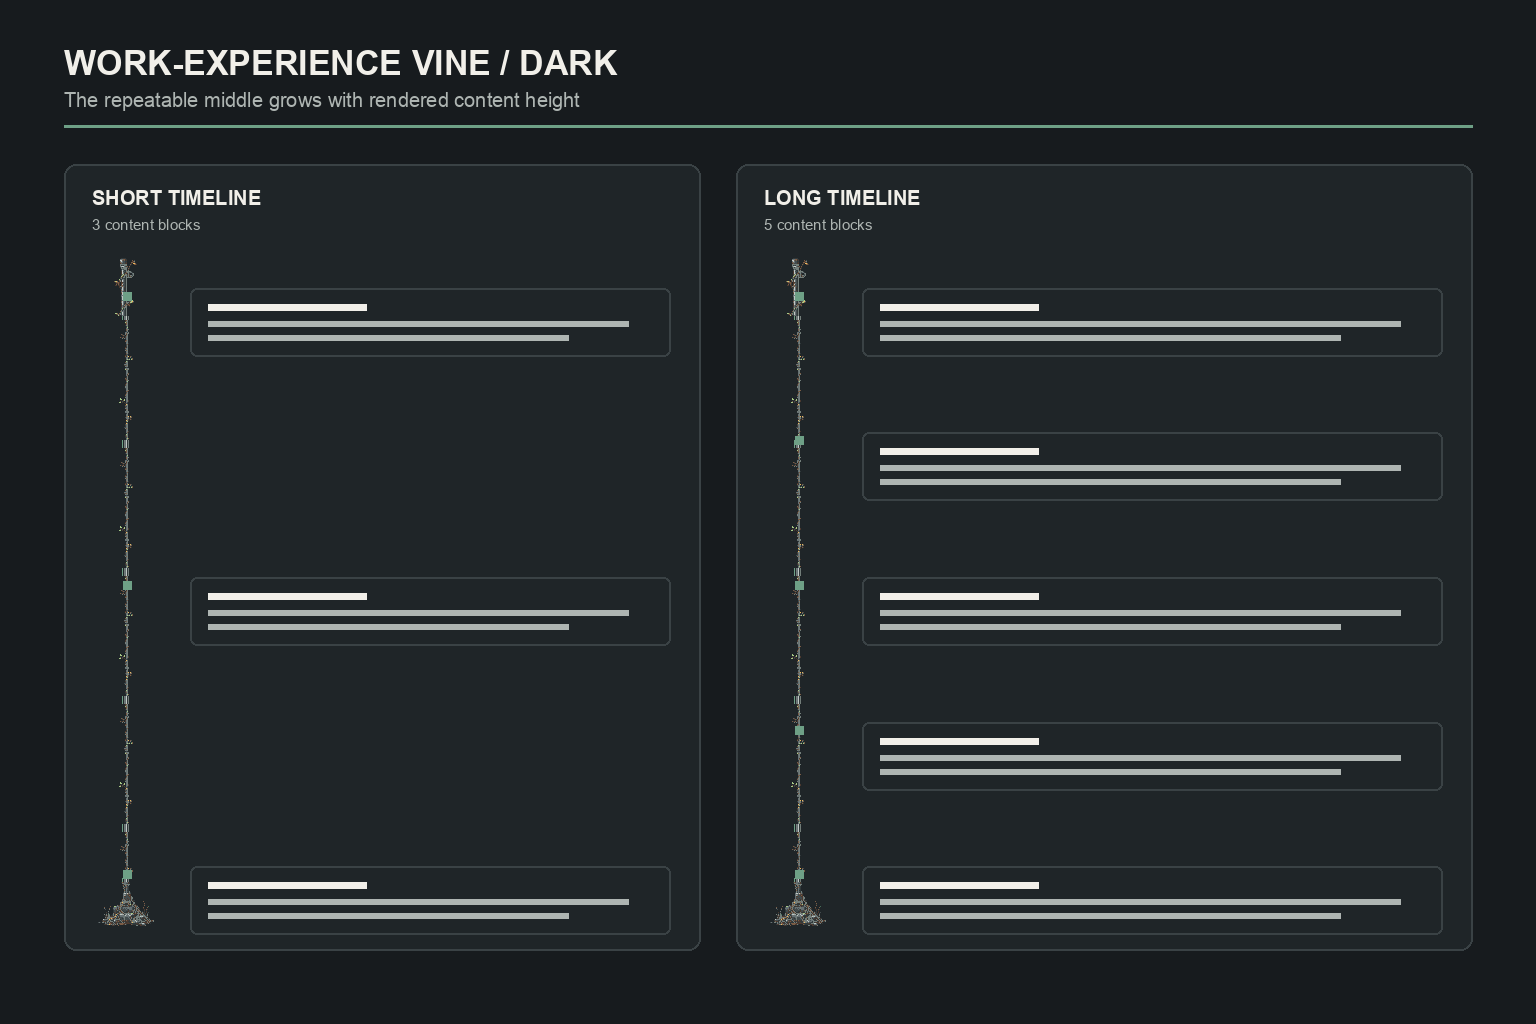
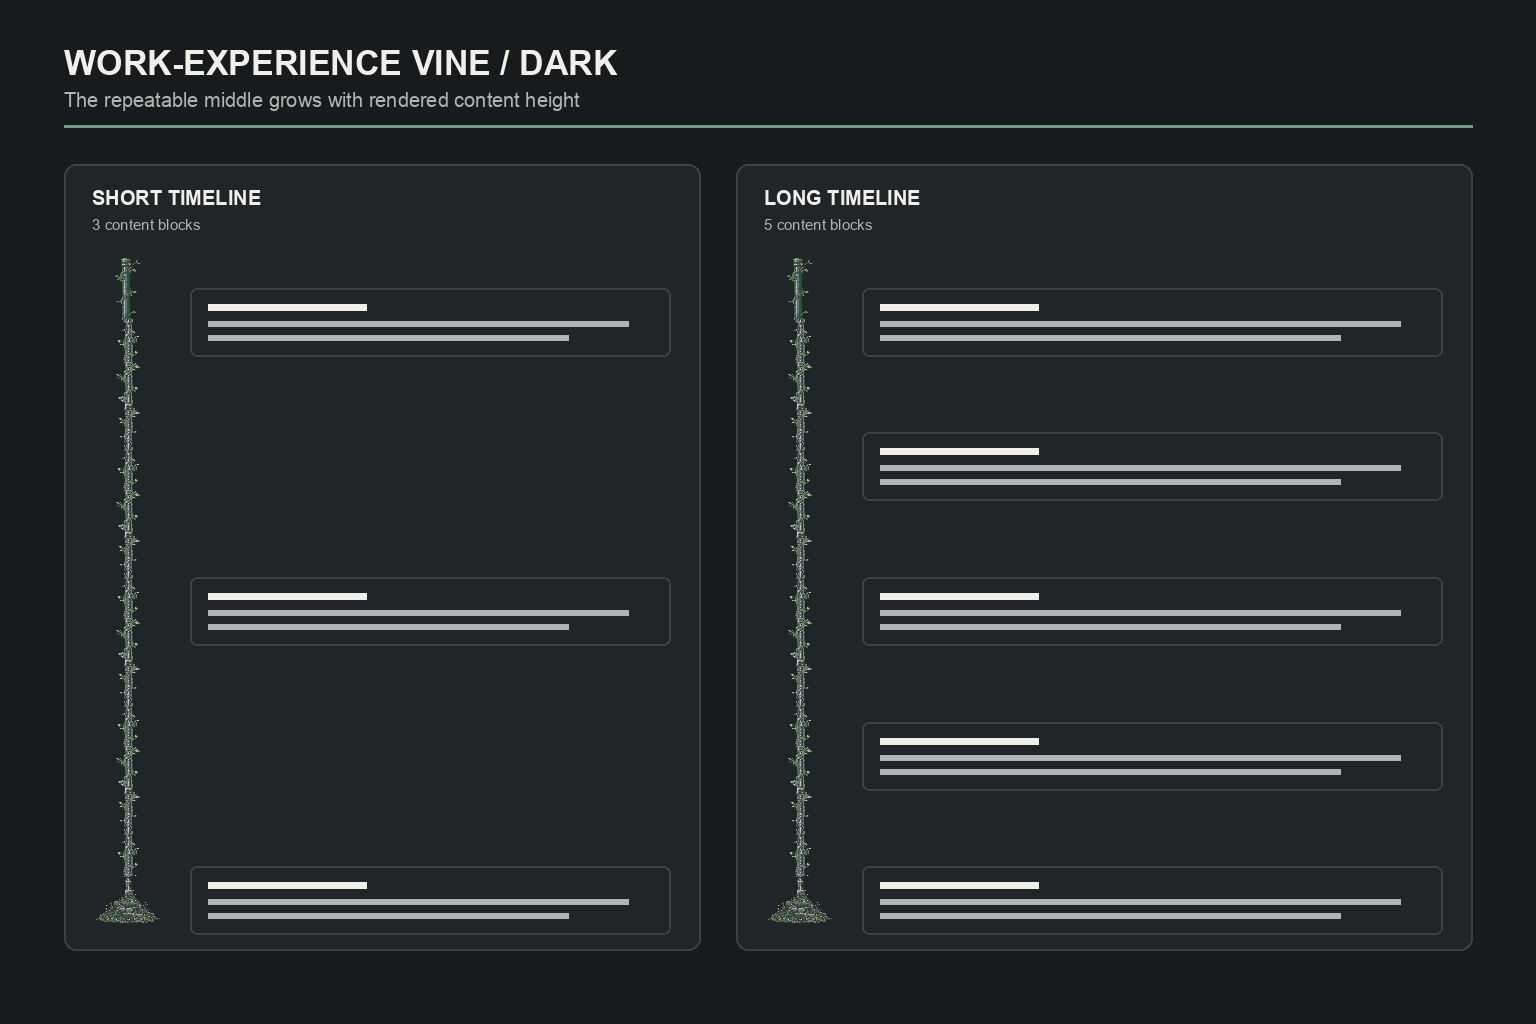
refine vine repeated at work experience

Changed region(s): [[0.5, 0.25, 0.5312, 0.9062], [0.0625, 0.25, 0.0938, 0.9062]]

diff --git a/tests/pixel-ornaments.test.ts b/tests/pixel-ornaments.test.ts
@@ -1,4 +1,5 @@
 import assert from "node:assert/strict";
+import { createHash } from "node:crypto";
 import { readFile } from "node:fs/promises";
 import path from "node:path";
 import test from "node:test";
@@ -17,6 +18,54 @@ type RailAsset = {
 
 function publicPath(assetPath: string) {
   return path.join("public", assetPath.replace(/^\//, ""));
+}
+
+async function alphaBoundsWidth(assetPath: string) {
+  const { data, info } = await sharp(assetPath).ensureAlpha().raw().toBuffer({ resolveWithObject: true });
+  let left = info.width;
+  let right = -1;
+
+  for (let pixel = 0; pixel < info.width * info.height; pixel += 1) {
+    if (data[pixel * info.channels + 3] === 0) continue;
+    const x = pixel % info.width;
+    left = Math.min(left, x);
+    right = Math.max(right, x);
+  }
+
+  assert.ok(right >= left, `${assetPath} has no opaque pixels`);
+  return right - left + 1;
+}
+
+async function alphaBoundsCenter(assetPath: string) {
+  const { data, info } = await sharp(assetPath).ensureAlpha().raw().toBuffer({ resolveWithObject: true });
+  let left = info.width;
+  let right = -1;
+
+  for (let pixel = 0; pixel < info.width * info.height; pixel += 1) {
+    if (data[pixel * info.channels + 3] === 0) continue;
+    const x = pixel % info.width;
+    left = Math.min(left, x);
+    right = Math.max(right, x);
+  }
+
+  assert.ok(right >= left, `${assetPath} has no opaque pixels`);
+  return { boundsCenter: (left + right + 1) / 2, canvasCenter: info.width / 2 };
+}
+
+async function greenCoverage(assetPath: string) {
+  const { data, info } = await sharp(assetPath).ensureAlpha().raw().toBuffer({ resolveWithObject: true });
+  let opaque = 0;
+  let greenPixels = 0;
+
+  for (let pixel = 0; pixel < info.width * info.height; pixel += 1) {
+    const offset = pixel * info.channels;
+    const [red, green, blue, alpha] = data.subarray(offset, offset + info.channels);
+    if (alpha === 0) continue;
+    opaque += 1;
+    if (green > red * 1.15 && green > blue * 1.05) greenPixels += 1;
+  }
+
+  return greenPixels / opaque;
 }
 
 test("the work-experience vine is a complete modular rail", async () => {
@@ -73,6 +122,46 @@ test("the work-experience vine is a complete modular rail", async () => {
       alphaMasks.push(alpha);
     }
     assert.deepEqual(alphaMasks[0], alphaMasks[1], `${asset.id} theme geometry drifted`);
+  }
+});
+
+test("the work-experience rail keeps its approved visual hierarchy", async () => {
+  const capWidth = await alphaBoundsWidth(path.join(root, "rails/work-experience-vine/cap/light.png"));
+  const repeatWidth = await alphaBoundsWidth(path.join(root, "rails/work-experience-vine/repeat/light.png"));
+  const baseWidth = await alphaBoundsWidth(path.join(root, "rails/work-experience-vine/base/light.png"));
+
+  assert.ok(repeatWidth >= 46 && repeatWidth <= 50, `repeat silhouette is ${repeatWidth}px wide, expected 46–50px`);
+  assert.equal(capWidth, 52, `cap silhouette is ${capWidth}px wide, expected 52px`);
+  assert.equal(baseWidth, 128, `base silhouette is ${baseWidth}px wide, expected 128px`);
+});
+
+test("the work-experience endpoints stay centered on the rail axis", async () => {
+  for (const theme of ["light", "dark"] as const) {
+    for (const part of ["cap", "base"] as const) {
+      const centers = await alphaBoundsCenter(path.join(root, `rails/work-experience-vine/${part}/${theme}.png`));
+      assert.equal(centers.boundsCenter, centers.canvasCenter, `${part}/${theme} is not horizontally centered`);
+    }
+  }
+});
+
+test("the approved work-experience repeat stays byte-identical", async () => {
+  const expected = {
[2 lines of base64/hex data omitted]
+  } as const;
+
+  for (const theme of ["light", "dark"] as const) {
+    const data = await readFile(path.join(root, `rails/work-experience-vine/repeat/${theme}.png`));
+    assert.equal(createHash("sha256").update(data).digest("hex"), expected[theme], `${theme} repeat asset changed`);
+  }
+});
+
+test("the work-experience rail stays visibly alive in both themes", async () => {
+  for (const theme of ["light", "dark"] as const) {
+    for (const part of ["cap", "repeat", "base"] as const) {
+      const coverage = await greenCoverage(path.join(root, `rails/work-experience-vine/${part}/${theme}.png`));
+      assert.ok(coverage >= 0.15, `${part}/${theme} has only ${(coverage * 100).toFixed(1)}% healthy-green coverage`);
+    }
   }
 });
 

diff --git a/public/assets/pixel-ornaments/README.md b/public/assets/pixel-ornaments/README.md
@@ -108,7 +108,7 @@ Asset type: modular vertical pixel-art ornament for a modern editorial work-expe
 Input images: Image 1 is the original visual-direction reference. Image 2 is the approved pixel-ornament calibration sheet and should control palette density, hard pixel scale, weathering, moss, and silhouette treatment. Use both only as style references; do not copy their layouts or objects.
 Primary direction: a reclaimed weathered metal flagpole-like timeline spine with no flag anywhere, being overtaken by a slender living vine. Cozy post-apocalyptic/solarpunk, sparse rather than lush, asymmetrical leaf clusters, compact environmental sprite scale.
 Style/medium: genuine hard-edged pixel art, deliberate square pixel clusters, crisp silhouette, restricted retro palette, no painterly blending.
-Color palette: weathered charcoal and gray metal, warm rust traces, muted moss greens, tiny pale highlights. Match the approved pack.
+Color palette: weathered charcoal and gray metal, restrained warm rust traces, fresh natural greens, and tiny pale highlights. Vegetation must read as healthy and living in both themes without becoming neon or lush. Match the approved pack.
 Backdrop: perfectly flat solid #FF00FF chroma-key background, uniform edge to edge. No gradient, floor, texture, lighting variation, shadow, glow, reflection, or transparency. Do not use #FF00FF in the subject.
 Constraints: isolated module, generous padding, no flag, fabric, banner, character, face, animal, letters, numbers, logos, UI glyphs, watermark, cast shadow, antialiasing, soft blur, or accidental text.
 ```
@@ -117,21 +117,21 @@ Constraints: isolated module, generous padding, no flag, fabric, banner, charact
 
 ```text
 Module: TOP CAP.
-Composition: tall narrow portrait module, pole precisely centered on the horizontal axis and exiting through the exact bottom center so it can connect to another module. Show the empty capped top of the pole, one tiny pulley or tie-loop detail without rope or flag, and a young vine tip curling around the upper pole with only a few leaves. Keep the bottom connection simple and perfectly vertical.
+Composition: tall narrow portrait module, pole precisely centered on the horizontal axis and exiting through the exact bottom center so it can connect to another module. Show the empty capped top of the pole, one tiny pulley or tie-loop detail without rope or flag, and a young healthy vine tip curling around the upper pole with only a few leaves. Give the outer ornament a 52-pixel final silhouette, centered exactly within the canvas, while leaving the connector thickness unchanged. Keep the bottom connection simple and perfectly vertical.
 ```
 
 ### Seamless middle repeat
 
 ```text
 Module: SEAMLESS MIDDLE REPEAT.
-Composition: very tall narrow portrait module. The metal pole must be precisely centered, perfectly vertical, constant width, and continue through both the exact top center and exact bottom center. A thin vine spirals around it and also crosses both top and bottom at the same horizontal connection point. Add three or four varied sparse leaf clusters at irregular heights and alternating sides. Make top and bottom visually compatible for vertical repetition; no base and no cap.
+Composition: very tall narrow portrait module. The metal pole must be precisely centered, perfectly vertical, constant width, and continue through both the exact top center and exact bottom center. A sturdy vine spirals around it and also crosses both top and bottom at the same horizontal connection point. The complete opaque silhouette must span 46–50 pixels on the final 96-pixel-wide canvas so it visually matches the cap. Add three or four varied sparse leaf clusters at irregular heights and alternating sides. Make top and bottom visually compatible for vertical repetition; no base and no cap.
 ```
 
 ### Rooted base
 
 ```text
 Module: ROOTED BASE.
-Composition: tall narrow portrait module, with the pole entering through the exact top center and ending in a compact reclaimed masonry-and-soil base near the bottom. Add visible roots, two restrained grass tufts, small moss patches, and a few loose stones. Keep the footprint wider than the pole but compact, with transparent-looking chroma space around it and no cast shadow.
+Composition: tall narrow portrait module, with the pole entering through the exact top center and ending in a compact reclaimed masonry-and-soil base near the bottom. Add visible roots, two restrained healthy grass tufts, fresh moss patches, and a few loose stones. Target a centered 128-pixel final footprint while keeping the top connector unchanged, transparent-looking chroma space around it, and no cast shadow.
 ```
 
 ## Production notes
